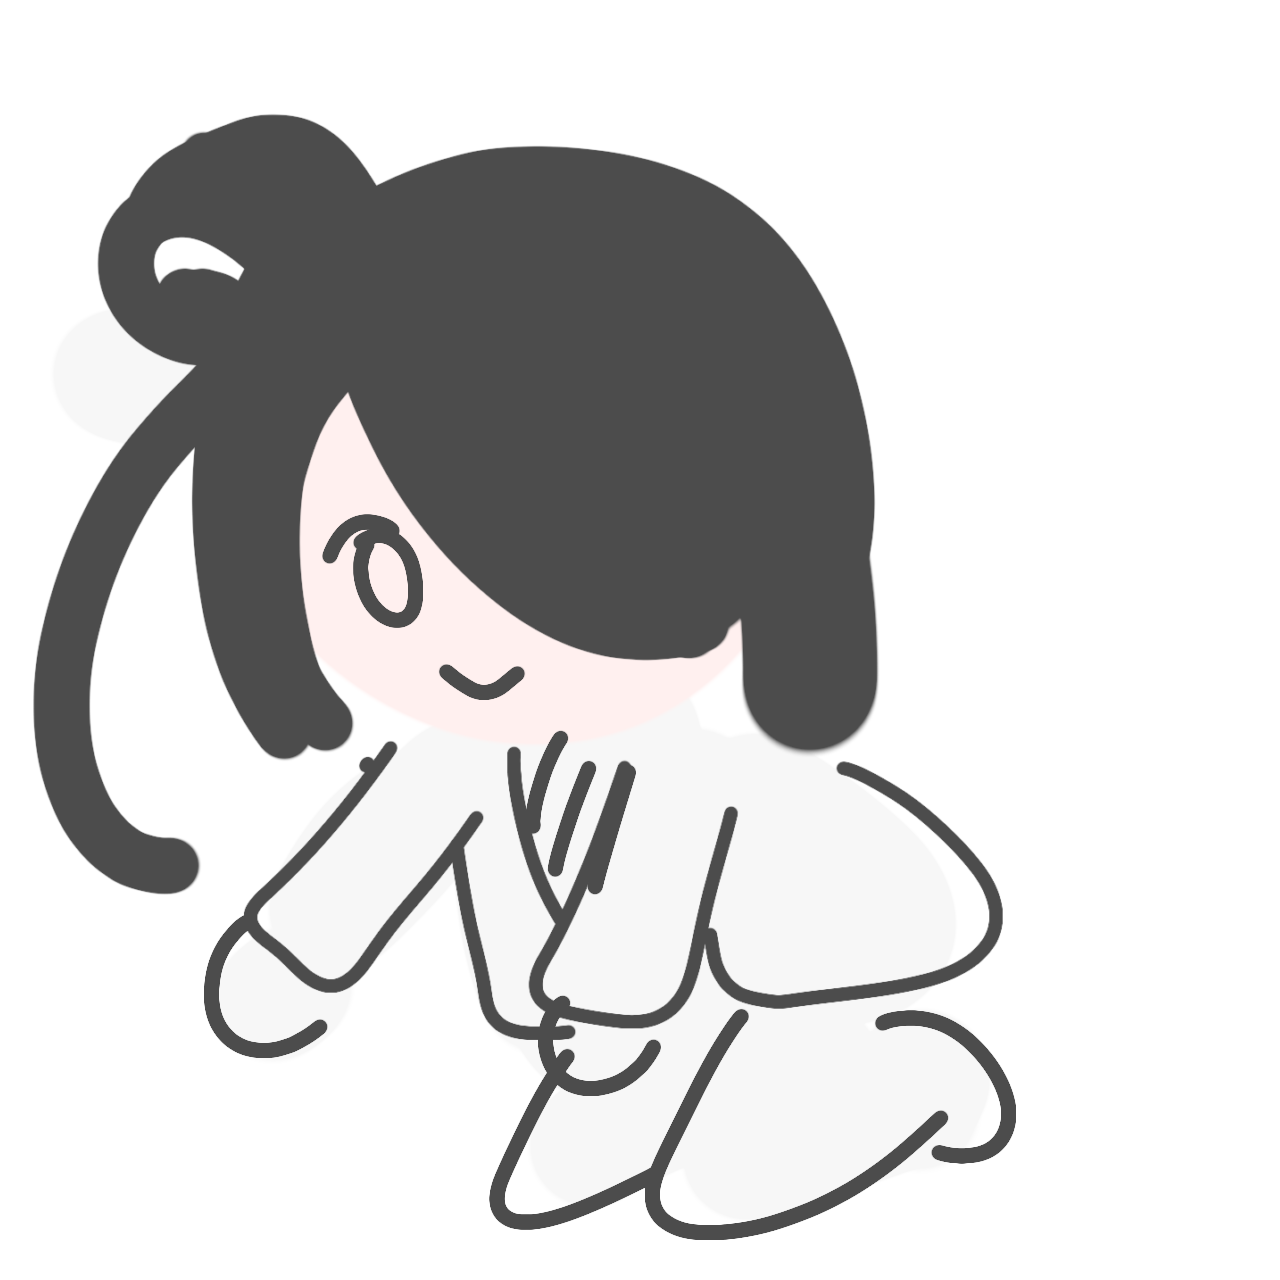
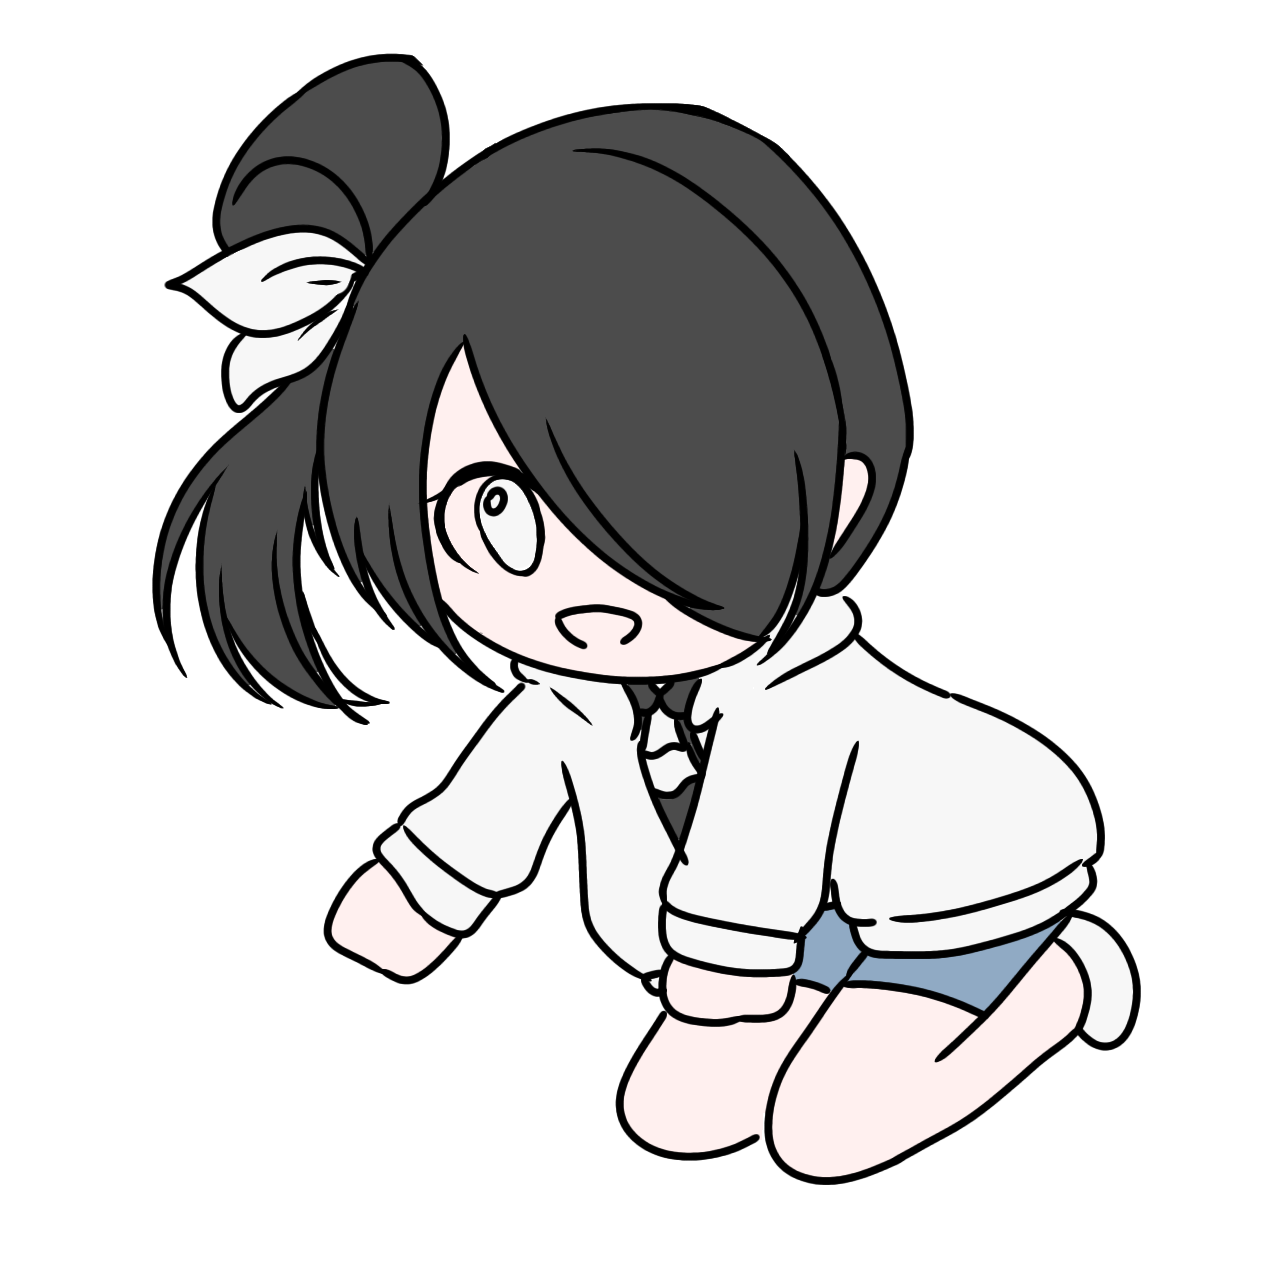
ロード中

Changed region(s): [[0.0, 0.0312, 0.9062, 0.9688], [0.7188, 0.5312, 0.7812, 0.5625], [0.2188, 0.6562, 0.25, 0.6875]]

diff --git a/project/application/Object/Load/GameLoad.cpp b/project/application/Object/Load/GameLoad.cpp
@@ -70,15 +70,15 @@ void GameLoad::GameSceneLoad() {
 }
 
 void GameLoad::InitializeLoadSprites() {
-	if (illustration_) {
+	if (loadingSpinner_) {
 		return;
 		
 	}
 	auto* textures = TextureManager::GetInstance();
-	illustrationHandle_ = textures->GetTextureIndexByfilePath(+"Resources/2d/Load.png");
+	illustrationHandle_ = textures->GetTextureIndexByfilePath("Resources/2d/Load/Load.png");
 	const uint32_t white = textures->GetTextureIndexByfilePath(+kDefaultWhiteTexturePath);
-	 illustration_ = std::make_unique<Sprite>();
-	 illustration_->Initialize(illustrationHandle_);
+	loadingSpinner_ = std::make_unique<Sprite>();
+	loadingSpinner_->Initialize(illustrationHandle_);
 	barBackground_ = std::make_unique<Sprite>();
 	barBackground_->Initialize(white);
 	barBackground_->SetColor({0.15f, 0.15f, 0.15f, 1.0f});
@@ -88,14 +88,14 @@ void GameLoad::InitializeLoadSprites() {
 	const float width = static_cast<float>(WinApp::kClientWidth);
 	const float height = static_cast<float>(WinApp::kClientHeight);
 	// 左上基準で配置する
-	  illustration_->SetPosition({(width - 480.0f) * 0.5f, height * 0.15f});
-	illustration_->SetScale({480.0f, 360.0f});
-	const Vector2 barPosition{+(width - 600.0f) * 0.5f, height * 0.8f};
+	loadingSpinner_->SetPosition({(width - 200.0f), height * 0.65f});
+	loadingSpinner_->SetScale({100.0f, 100.0f});
+	const Vector2 barPosition{(width - 600.0f) * 0.5f, height * 0.8f};
 	barBackground_->SetPosition(barPosition);
 	barBackground_->SetScale({600.0f, 24.0f});
 	barFill_->SetPosition(barPosition);
 	barFill_->SetScale({0.0f, 24.0f});
-	illustration_->Update();
+	loadingSpinner_->Update();
 	barBackground_->Update();
 	barFill_->Update();
 	
@@ -201,19 +201,19 @@ void GameLoad::Update() {
 
 	barFill_->SetScale({600.0f * (loadProgressPercent_ / 100.0f), 24.0f});
 
-	illustration_->Update();
+	loadingSpinner_->Update();
 	barBackground_->Update();
 	barFill_->Update();
 }
 void GameLoad::DrawLoadProgress() {
-	if (!illustration_) {
+	if (!loadingSpinner_) {
 		return;
 		
 	}
 	SpriteCommon::GetInstance()->DrawCommon();
 	// 未ロードのイラストは白い代替画像になるため、完了後に描画
 	  if (TextureManager::GetInstance()->IsTextureLoaded(+illustrationHandle_)) {
-		illustration_->Draw();
+		loadingSpinner_->Draw();
 		
 	}
 	barBackground_->Draw();

diff --git a/project/application/Object/Load/GameLoad.h b/project/application/Object/Load/GameLoad.h
@@ -31,7 +31,7 @@
     std::future<LoadedModel> loadFuture_;
     std::vector<uint32_t> materialTextureHandles_;
 
-    std::unique_ptr<Sprite> illustration_;
+    std::unique_ptr<Sprite> loadingSpinner_;
     std::unique_ptr<Sprite> barBackground_;
     std::unique_ptr<Sprite> barFill_;
     uint32_t illustrationHandle_ = 0;
@@ -48,9 +48,10 @@
      void Finalize();
 
     void InitializeLoadSprites();
-     void GameSceneLoad();
+	void UpdateLoadSprites();
+    void GameSceneLoad();
     void Update();
-     void DrawLoadProgress();
+    void DrawLoadProgress();
 
     bool IsLoadComplete() const { return isLoadComplete_; }
     bool HasLoadError() const { return hasLoadError_; }

diff --git a/project/application/Object/RemoteCamera/RemoteCamera.cpp b/project/application/Object/RemoteCamera/RemoteCamera.cpp
@@ -46,8 +46,7 @@ bool RemoteCamera::BeginRender() {
 	}
 
 	renderTexture_.BeginRender();
-	// Some drawables fall back to Object3dCommon's default camera when they do
-	// not own a camera.  Switch that fallback for the entire off-screen pass.
+
 	Object3dCommon* const object3dCommon = Object3dCommon::GetInstance();
 	previousDefaultCamera_ = object3dCommon->GetDefaultCamera();
 	object3dCommon->SetDefaultCamera(&camera_);

diff --git a/project/application/Object/Characters/Enemy/Enemy.h b/project/application/Object/Characters/Enemy/Enemy.h
@@ -16,8 +16,8 @@ class Object3d;
 
 class Enemy {
 
-	int HP = 40;
-	int maxHP_ = 100;
+	int HP = 1000;
+	int maxHP_ = 1000;
 	BaseParameter baseParameter_{10.0f, 0.0f, 10.0f};
 	Parameter parameter_{};
 	bool isAlive = true;

diff --git a/project/application/Object/Characters/Enemy/Enemy.cpp b/project/application/Object/Characters/Enemy/Enemy.cpp
@@ -26,7 +26,7 @@ Enemy::Enemy() {
 void Enemy::Initialize(Camera* camera, Vector3 translates) {
 	isAlive = true;
 	isStun_ = false;
-	maxHP_ = 100;
+	maxHP_ = 3000;
 	HP = maxHP_;
 	stunTime = 0;
 	attackTimer_ = 0.0f;
